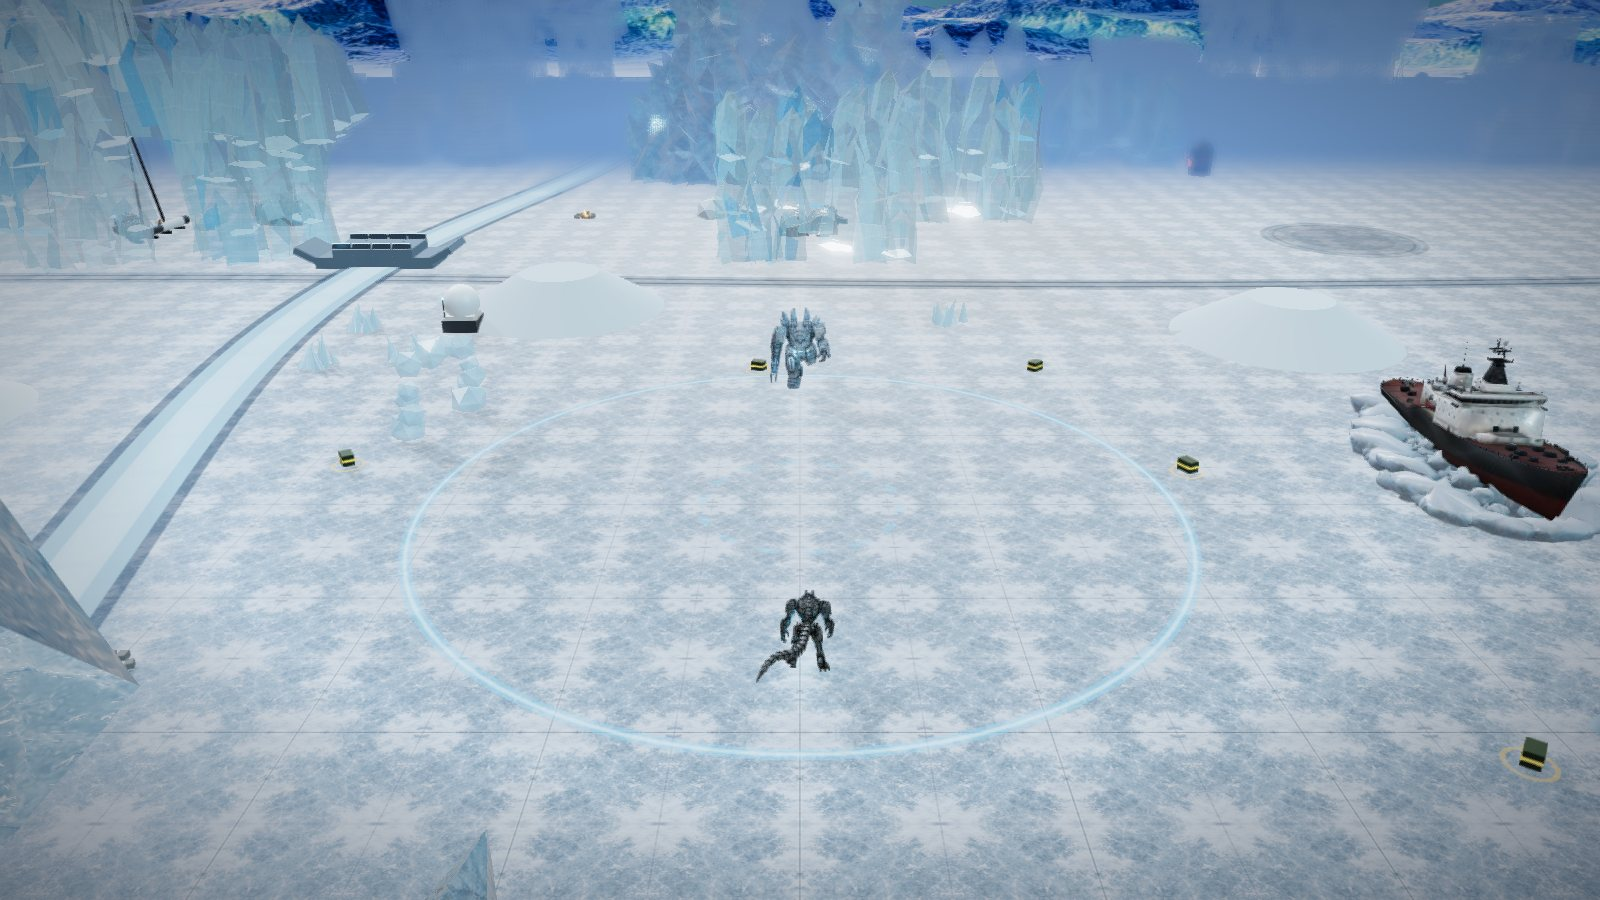
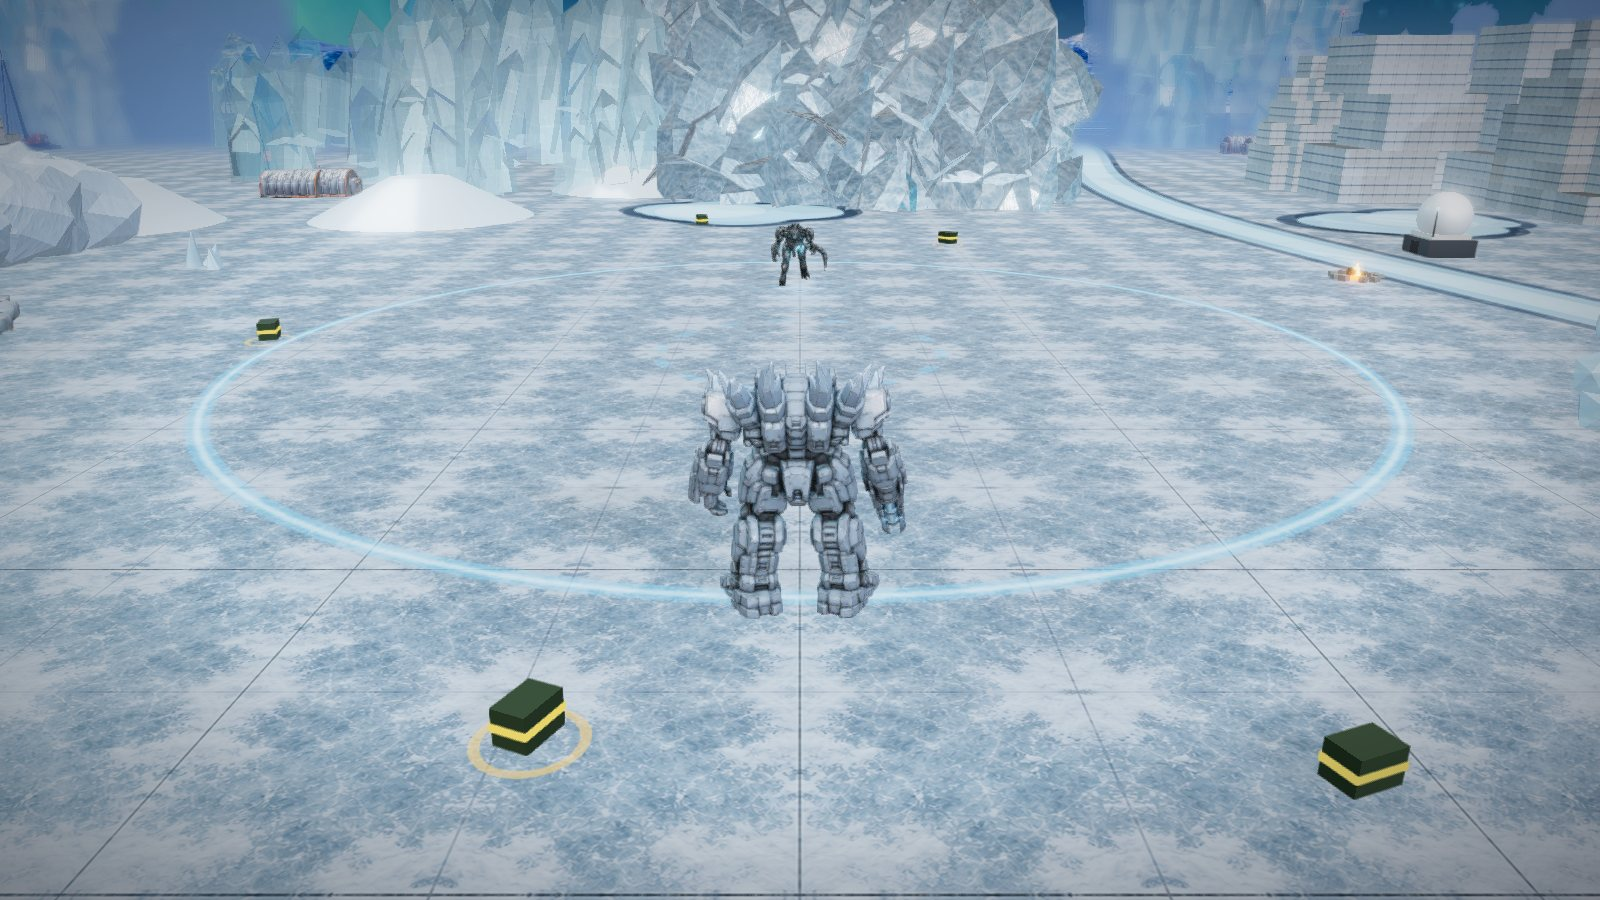
Drop the mech source archive and unreferenced GLBs from build output; fresher arena shots
public/models/source/ (118 MB of pre-bake originals and .edits/.opt.json
sidecars) is read only on disk by tools/bake-glb.mjs and tools/mechopt.mjs —
nothing in the game or the workbenches fetches it — yet every build copied it,
including the GitHub Pages deploy and the desktop app (both ship
`npm run build`). A vite plugin now deletes it from the OUTPUT, along with any
mech GLB the manifest (primary or alt) no longer names (jerry's retired
mech_jerry.glb, 7.6 MB). Build 713 MB -> 589 MB. The repo copies are
untouched; props/source stays in a normal build because the props workbench
compares against it (tools/dist.mjs already drops it).

Verified against `vite preview` of the built site: all 17 mechs load as GLBs,
no failed requests.

README volcano/frozen shots retaken from behind the player's mech.

Claude-Session: https://claude.ai/code/session_01UG2pyqZoLT1yTd8HkZMHyY

diff --git a/vite.config.js b/vite.config.js
@@ -21,7 +21,7 @@ import path from 'node:path';
 //
 // RW_NO_MUSIC=1 builds the game WITHOUT the soundtrack: no files copied, an
 // empty track list, and the game falls back to its procedural battle themes.
-// That's the switch for a packaged build that shouldn't carry ~40MB of audio.
+// That's the switch for a packaged build that shouldn't carry ~128MB of audio.
 //
 // `src/music/arenas/` is the same thing PER ARENA: a song named for an arena
 // ("Jungle Temple 1") plays on that arena instead of the general pool. It is
@@ -58,7 +58,7 @@ function musicPlugin() {
         + `export const MUSIC_ARENA_BASE = ${JSON.stringify(base + 'arenas/')};\n`
         + `export const MUSIC_ARENA_FILES = ${JSON.stringify(arenaFiles())};\n`;
     },
-    // Copied, not emitted: routing ~40MB of audio through rollup's asset
+    // Copied, not emitted: routing ~128MB of audio through rollup's asset
     // pipeline (buffer it, hash it, account it) costs a minute and a half of
     // build time to produce files it must not rename anyway.
     writeBundle(opts) {
@@ -86,6 +86,44 @@ function musicPlugin() {
   };
 }
 
+// THE MECH SOURCE ARCHIVE STAYS HOME. `public/models/source/` holds each
+// mech's untouched original GLB plus its `<id>.edits.json` / `<id>.opt.json`
+// sidecars — written and read ON DISK by tools/bake-glb.mjs and
+// tools/mechopt.mjs, and fetched by nothing: not the game, not the
+// workbenches. Everything in public/ is copied into every build, so without
+// this each deploy (GitHub Pages runs plain `npm run build`) and the desktop
+// app carried ~118 MB of models no page ever asks for. Removed from the
+// OUTPUT only; the repo copy is untouched. (The PROP archive,
+// `models/props/source/`, is different — the props workbench compares against
+// it — so a normal build keeps it and tools/dist.mjs, which has no
+// workbench, drops it.)
+function sourceArchivePlugin() {
+  let outDir = 'dist';
+  return {
+    name: 'rw-drop-source-archive',
+    apply: 'build',
+    configResolved(cfg) { outDir = path.resolve(cfg.root, cfg.build.outDir); },
+    closeBundle() {
+      const models = path.join(outDir, 'models');
+      fs.rmSync(path.join(models, 'source'), { recursive: true, force: true });
+      // …and the same for a mech GLB the manifest no longer names (jerry's
+      // retired first model): the game and every workbench find models through
+      // the manifest, primary and `alt` alike, so an unnamed file is unreachable.
+      // tools/dist.mjs applies the same rule to its own output.
+      let manifest;
+      try { manifest = JSON.parse(fs.readFileSync(path.join(models, 'manifest.json'), 'utf8')); }
+      catch (e) { return; }   // no manifest, no way to tell — leave the models alone
+      const named = new Set();
+      for (const e of Object.values(manifest)) {
+        for (const u of [e?.url, e?.alt?.url]) if (u) named.add(path.basename(u));
+      }
+      for (const f of fs.readdirSync(models)) {
+        if (f.endsWith('.glb') && !named.has(f)) fs.rmSync(path.join(models, f));
+      }
+    },
+  };
+}
+
 // RW_DIST=1 marks a DISTRIBUTION build (tools/dist.mjs): the public artifact,
 // with no authoring surface in it. Two effects — the /workbench/ page leaves
 // the build inputs, and __RW_DIST__ compiles the dev routes out of the game
@@ -95,7 +133,7 @@ const IS_DIST = process.env.RW_DIST === '1';
 
 export default defineConfig({
   base: './',
-  plugins: [musicPlugin()],
+  plugins: [musicPlugin(), sourceArchivePlugin()],
   define: {
     __RW_DIST__: JSON.stringify(IS_DIST),
   },

diff --git a/docs/WEB_LAUNCH_CHECKLIST.md b/docs/WEB_LAUNCH_CHECKLIST.md
@@ -49,11 +49,22 @@ moved a lot since (measured 2026-09-27 with `du`): the 18 mech GLBs in
 20 MB, building donors 3.3 MB; the recorded SFX in `public/sfx/` are **8.2 MB**;
 the soundtrack in `src/music/` is **128 MB** (streamed, but copied verbatim into
 the build unless `RW_NO_MUSIC=1`); the PNG texture masters in `src/textures/`
-are 356 MB before WebP. Two things to check before quoting a payload again:
-`tools/dist.mjs` strips `public/models/props/source/` but, reading the code,
-NOT the mech archive `public/models/source/` (118 MB of pre-bake originals and
-sidecars the game never loads), and it does nothing about the music. Re-run
-`npm run dist:web` and `du -sh dist-web` for the real number.
+are 356 MB before WebP. The mech archive `public/models/source/` (118 MB of
+pre-bake originals and sidecars, read only on disk by `bake-glb`/`mechopt`) and
+any mech GLB the manifest no longer names (jerry's retired `mech_jerry.glb`,
+7.6 MB) are now dropped from EVERY build's output by a plugin in
+`vite.config.js` — `npm run build`, which is what the GitHub Pages deploy and
+the desktop app ship, went 713 MB -> 589 MB. `tools/dist.mjs` additionally
+strips `public/models/props/source/` (the props workbench's comparison
+archive, so a normal build with workbenches keeps it). It still does nothing
+about the music. Re-run `npm run dist:web` and `du -sh dist-web` for the real
+number.
+
+NOTE THE DEPLOY IS NOT THE DIST: `.github/workflows/deploy.yml` publishes
+`npm run build`, not `tools/dist.mjs`, so the live site carries the workbench
+page, uncompressed mech GLBs and the PNG texture masters (~358 MB of
+`assets/`). Switching the deploy to `dist:web` is the big remaining saving,
+and a decision (it removes the public workbenches).
 
 Source masters in `public/models/` and `src/textures/` are never touched, so
 every workbench, `anchorkeep`, `hurtboxfit` and `cliptear` keep working against

diff --git a/ASSETS.md b/ASSETS.md
@@ -35,7 +35,7 @@ the large-structure materials) · `prop` (`prop_*`) · `mech` (`mech_*`) ·
 | path | what | how it is found |
 |------|------|-----------------|
 | `public/models/` | mech, prop and building GLBs | `fetch` + `manifest.json` per family |
-| `public/models/source/` | pre-bake archives of edited GLBs + `<id>.edits.json`, and the mech-diet sidecars `<id>.opt.json` (`tools/mechopt.mjs`) | never loaded; the record of what a bake / the diet did |
+| `public/models/source/` | pre-bake archives of edited GLBs + `<id>.edits.json`, and the mech-diet sidecars `<id>.opt.json` (`tools/mechopt.mjs`) | never loaded, and removed from every build's output (`vite.config.js`); the record of what a bake / the diet did |
 | `public/levels/` | authored arena levels | `fetch('levels/<name>.json')` |
 | `public/badges/` | hand-made mech emblems | `<img src="badges/<id>.png">` |
 | `public/thumbs/` | auto-captured mech icons (`tools/thumbs.mjs`) | `<img>` fallback under badges |

diff --git a/CLAUDE.md b/CLAUDE.md
@@ -1713,7 +1713,10 @@ fallback bank are all generated. Progress history: `TASKS.md`.
   `public/models/source/<file>.glb` (once — a re-bake never overwrites the true
   original) and writes `public/models/source/<id>.edits.json`: every folded field
   with its values, plus the rig file's text, so a baked model stays explainable
-  without digging through git. Paths come from the entry's `url`, not from the
+  without digging through git. That folder is DISK-ONLY: nothing fetches it, so
+  `vite.config.js` (`sourceArchivePlugin`) deletes `models/source/` — and any
+  mech GLB the manifest no longer names — from every build's OUTPUT (the Pages
+  deploy and the desktop app ship `npm run build`: 713 -> 589 MB). Paths come from the entry's `url`, not from the
   mech id (jerry's primary model is `mech_jerry_alt.glb`). A dry run restores the
   tree even if a step throws.
   THE CHECK IS THE SKIN NOW, not 15 joints. It plays EVERY CLIP THE MECH CAN
